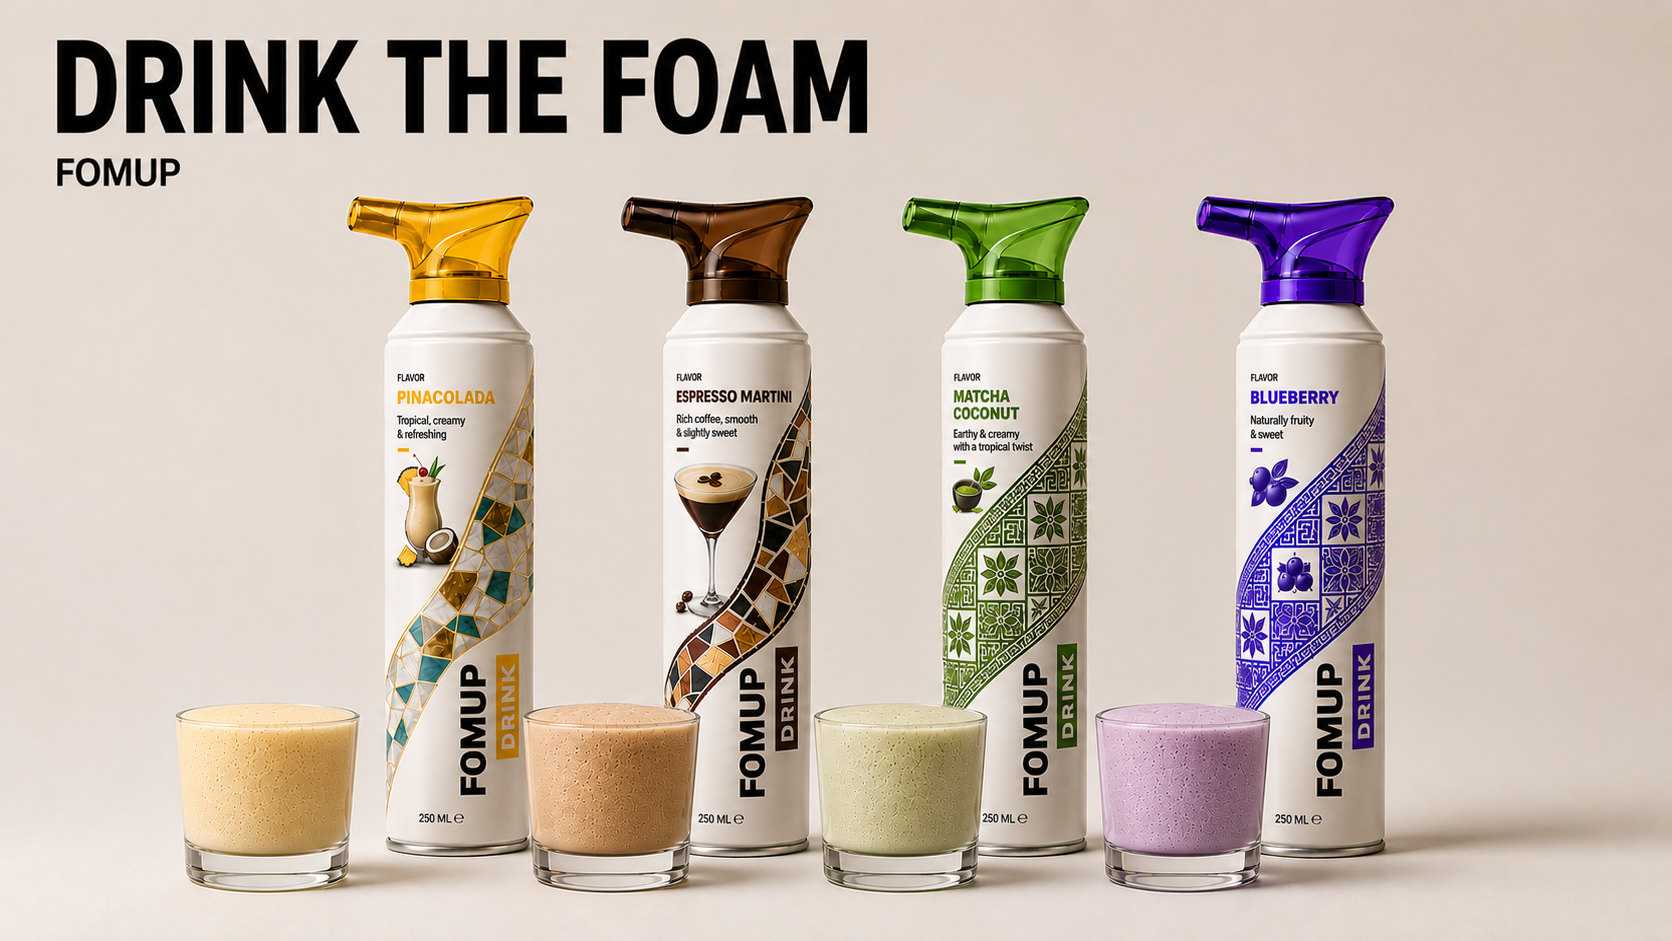
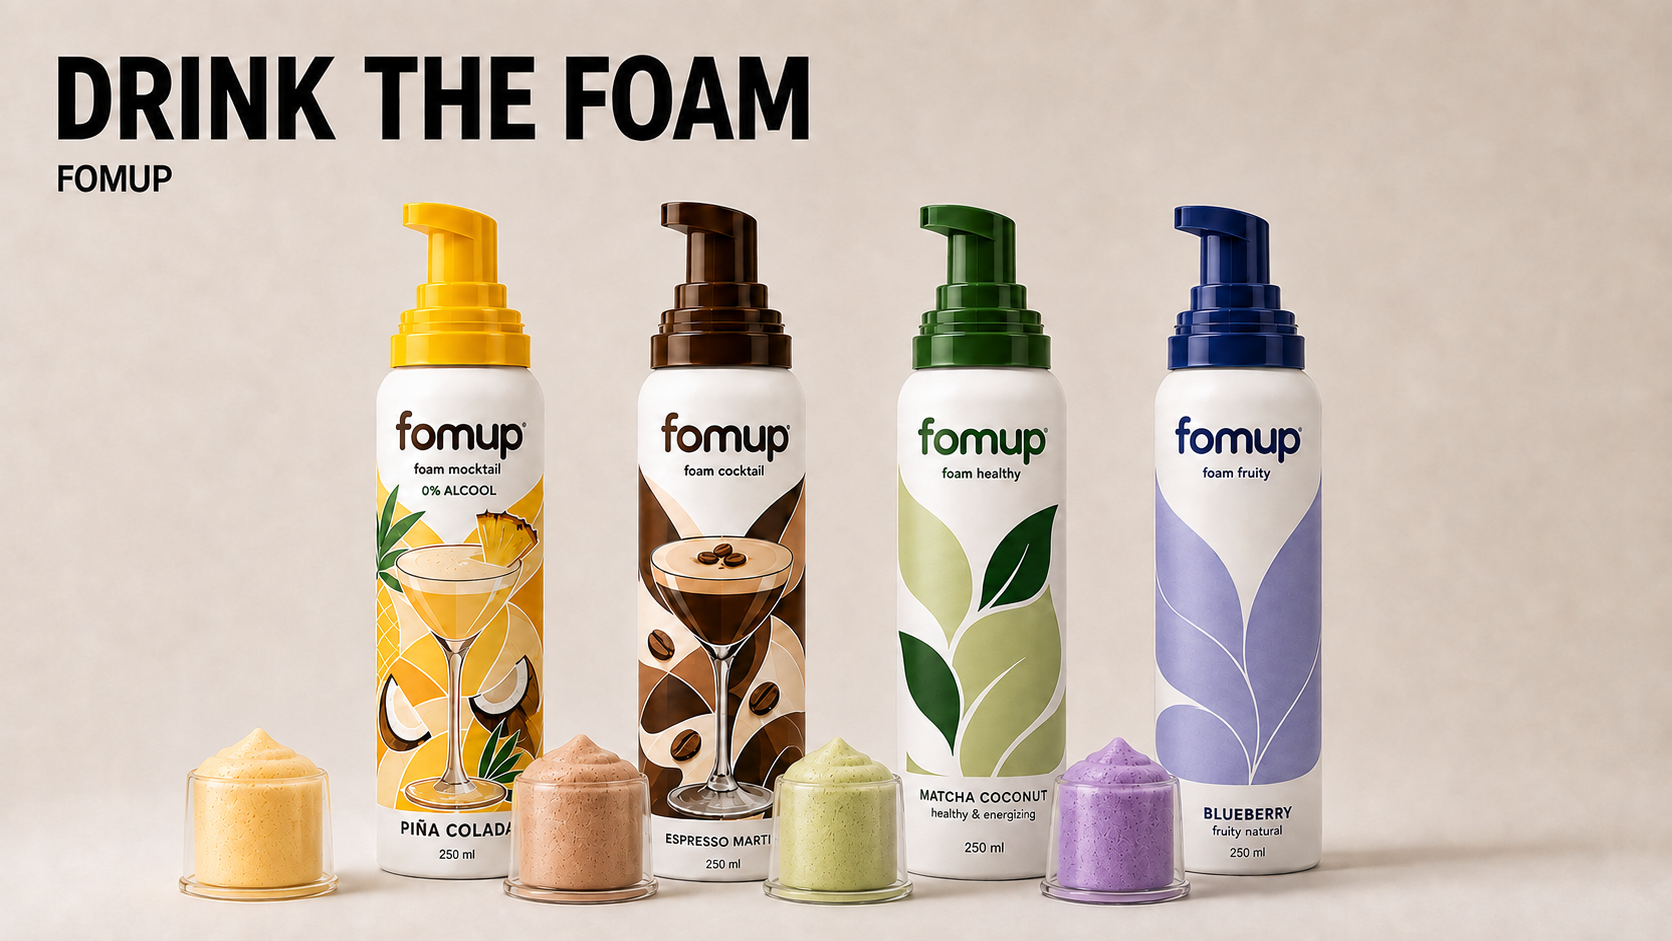
Replace every product visual with the new pump bottle mockups
Five new files: the four flavours and the range poster. Three of the four
bottles arrived on opaque black, so they were keyed by flooding the
background in from the borders, which leaves the dark cap and the clear
dome intact where a luminance key would have eaten them. All four were
then cropped to the pack.

The bottles are narrower than the old cans, 0.24 against 0.34, so every
crop percentage was retuned to show the same share of the pack. Flavour
backgrounds follow the new caps, navy for blueberry rather than violet.
The poster caption was remeasured against the new artwork: the headline
starts at 3.53% and the first bottle enters at 22.4%.

Tasting notes now match what is printed on the packs, and slide 2 no
longer calls the product a pressurized can.

diff --git a/src/styles.css b/src/styles.css
@@ -134,9 +134,9 @@ button { color: inherit; }
 
 .flavor-slide, .flavor-slide .slide-inner { background: var(--flavor-bg); color: var(--flavor-ink); }
 .flavor-espresso { --flavor-bg: oklch(.26 .055 55); --flavor-ink: oklch(.96 .022 87); }
-.flavor-pinacolada { --flavor-bg: oklch(.85 .135 88); --flavor-ink: oklch(.2 .03 60); }
-.flavor-blueberry { --flavor-bg: oklch(.4 .19 292); --flavor-ink: oklch(.96 .02 300); }
-.flavor-matcha { --flavor-bg: oklch(.76 .14 138); --flavor-ink: oklch(.2 .05 145); }
+.flavor-pinacolada { --flavor-bg: oklch(.84 .155 90); --flavor-ink: oklch(.2 .03 60); }
+.flavor-blueberry { --flavor-bg: oklch(.34 .12 274); --flavor-ink: oklch(.95 .025 280); }
+.flavor-matcha { --flavor-bg: oklch(.72 .13 140); --flavor-ink: oklch(.22 .06 145); }
 .flavor-slide .slide-inner { display: grid; grid-template-rows: auto minmax(0, 1fr) auto; gap: clamp(.5rem, 2vh, 1.25rem); }
 .flavor-head { display: flex; align-items: baseline; gap: 1rem; }
 .flavor-stage { position: relative; min-height: 0; overflow: hidden; }
@@ -161,7 +161,7 @@ button { color: inherit; }
   .flavor-stage { grid-column: 2; grid-row: 2; align-self: stretch; }
   /* Same full bleed crop as on phones, driven by the height of the row so the
      can is cut at the same point whatever the width of the column. */
-  .flavor-stage img { inset: 0 auto auto 50%; margin: 0; transform: translateX(-50%); height: 150%; width: auto; max-width: none; max-height: none; }
+  .flavor-stage img { inset: 0 auto auto 50%; margin: 0; transform: translateX(-50%); height: 142%; width: auto; max-width: none; max-height: none; }
   .flavor-foot h1 { font-size: clamp(2.6rem, 6.5vw, 7rem); }
   .flavor-foot p { font-size: clamp(1rem, 1.6vw, 1.5rem); max-width: 24ch; }
 }
@@ -213,9 +213,10 @@ button { color: inherit; }
 /* Sits in the clear beige column on the left of the photo, level with the cans,
    so it reads as part of the shot rather than a label stuck underneath it. */
 /* 3.41% is where DRINK THE FOAM starts in the file, measured on the pixels. */
-/* Left edge at 3.41%, where DRINK THE FOAM starts in the file, and no wider than
-   19.5%: the first can enters the frame at 24%, measured on the pixels. */
-.lineup-caption { position: absolute; z-index: 2; left: 3.41%; top: 50%; transform: translateY(-50%); max-width: 19.5%; }
+/* Left edge at 3.53%, where DRINK THE FOAM starts in the new poster, and no
+   wider than 18%: the first bottle enters the frame at 22.4%, measured on the
+   pixels. Both were remeasured when the artwork was replaced. */
+.lineup-caption { position: absolute; z-index: 2; left: 3.53%; top: 50%; transform: translateY(-50%); max-width: 18%; }
 .lineup-caption h2 { margin: .25rem 0 .3rem; font-family: var(--font-body); font-weight: 500; font-size: clamp(.95rem, 1.45vw, 1.35rem); line-height: 1.1; letter-spacing: -.02em; white-space: nowrap; }
 .lineup-note { margin: 0; font-size: clamp(.6rem, .82vw, .75rem); line-height: 1.35; opacity: .6; }
 
@@ -261,7 +262,7 @@ button { color: inherit; }
   .idea-copy .body-copy { display: none; }
   .idea-stage { height: auto; gap: .5rem; }
   .idea-product { height: auto; max-height: none; min-height: 0; overflow: visible; }
-  .idea-product img { position: static; width: auto; height: auto; max-width: 100%; max-height: 66vh; max-height: 66dvh; }
+  .idea-product img { position: static; width: auto; height: auto; max-width: 100%; max-height: 72vh; max-height: 72dvh; }
   .video-frame { width: calc(100vw - 2.5rem); }
   .format-sub { display: none; }
   .format-flow { flex-direction: column; align-items: center; margin-top: clamp(.9rem, 3vh, 1.75rem); gap: clamp(.35rem, 1.2vh, .75rem); }
@@ -283,7 +284,7 @@ button { color: inherit; }
   /* Deliberate full bleed crop on phones: the can is sized by the width of the
      slide and anchored to the top, so it runs off the bottom behind the flavour
      name instead of being fitted into the leftover space. */
-  .flavor-stage img { inset: 6% auto auto 50%; margin: 0; transform: translateX(-50%); width: 68%; height: auto; max-width: none; max-height: none; }
+  .flavor-stage img { inset: 5% auto auto 50%; margin: 0; transform: translateX(-50%); width: 46%; height: auto; max-width: none; max-height: none; }
   /* The range photo is landscape and the slide is portrait, so it is turned a
      quarter clockwise. Its width before rotation becomes the on-screen height,
      so it is capped by both the viewport height and, through the 1.777 aspect

diff --git a/src/routes/index.tsx b/src/routes/index.tsx
@@ -2,10 +2,10 @@ import { createFileRoute } from "@tanstack/react-router";
 import { ArrowLeft, ArrowRight, Building2, CalendarHeart, Martini, Music2 } from "lucide-react";
 import { Fragment, useCallback, useEffect, useRef, useState, type ReactNode } from "react";
 
-import espresso from "@/assets/fomup-espresso-transparent.png";
-import matcha from "@/assets/fomup-matcha-transparent.png";
-import blueberry from "@/assets/fomup-blueberry-transparent.png";
-import pinacolada from "@/assets/fomup-pinacolada-transparent.png";
+import espresso from "@/assets/fomup-espresso.png";
+import matcha from "@/assets/fomup-matcha.png";
+import blueberry from "@/assets/fomup-blueberry.png";
+import pinacolada from "@/assets/fomup-pinacolada.png";
 import lineup from "@/assets/fomup-lineup.png";
 
 // Social scrapers do not resolve relative paths, so the share image needs an
@@ -126,7 +126,7 @@ const flavors = [
     accent: "oklch(.62 .13 78)",
     idea: "Holiday in a glass, thick enough to stand a spoon in.",
     category: "The mocktail",
-    note: "Tropical, creamy, refreshing",
+    note: "Tropical and creamy, 0% alcohol",
     src: pinacolada,
   },
   {
@@ -135,7 +135,7 @@ const flavors = [
     accent: "oklch(.45 .22 295)",
     idea: "Fruit, air and sugar. Gone in three spoons.",
     category: "The fruity one",
-    note: "Sweet, playful, easy to love",
+    note: "Fruity and natural",
     src: blueberry,
   },
   {
@@ -144,7 +144,7 @@ const flavors = [
     accent: "oklch(.5 .12 140)",
     idea: "Earthy, creamy, and impossible not to film.",
     category: "The healthy one",
-    note: "Earthy, creamy, tropical",
+    note: "Healthy and energizing",
     src: matcha,
   },
 ] as const;
@@ -278,7 +278,7 @@ function PitchDeck() {
               {flavors[ideaStep]?.idea ?? "A cocktail you have never tasted."}
             </h1>
             <p className="body-copy">
-              A dense, aerated mousse served straight from a pressurized can.
+              A dense, aerated mousse that pumps straight out of the bottle.
             </p>
           </div>
           <div className="idea-stage">
